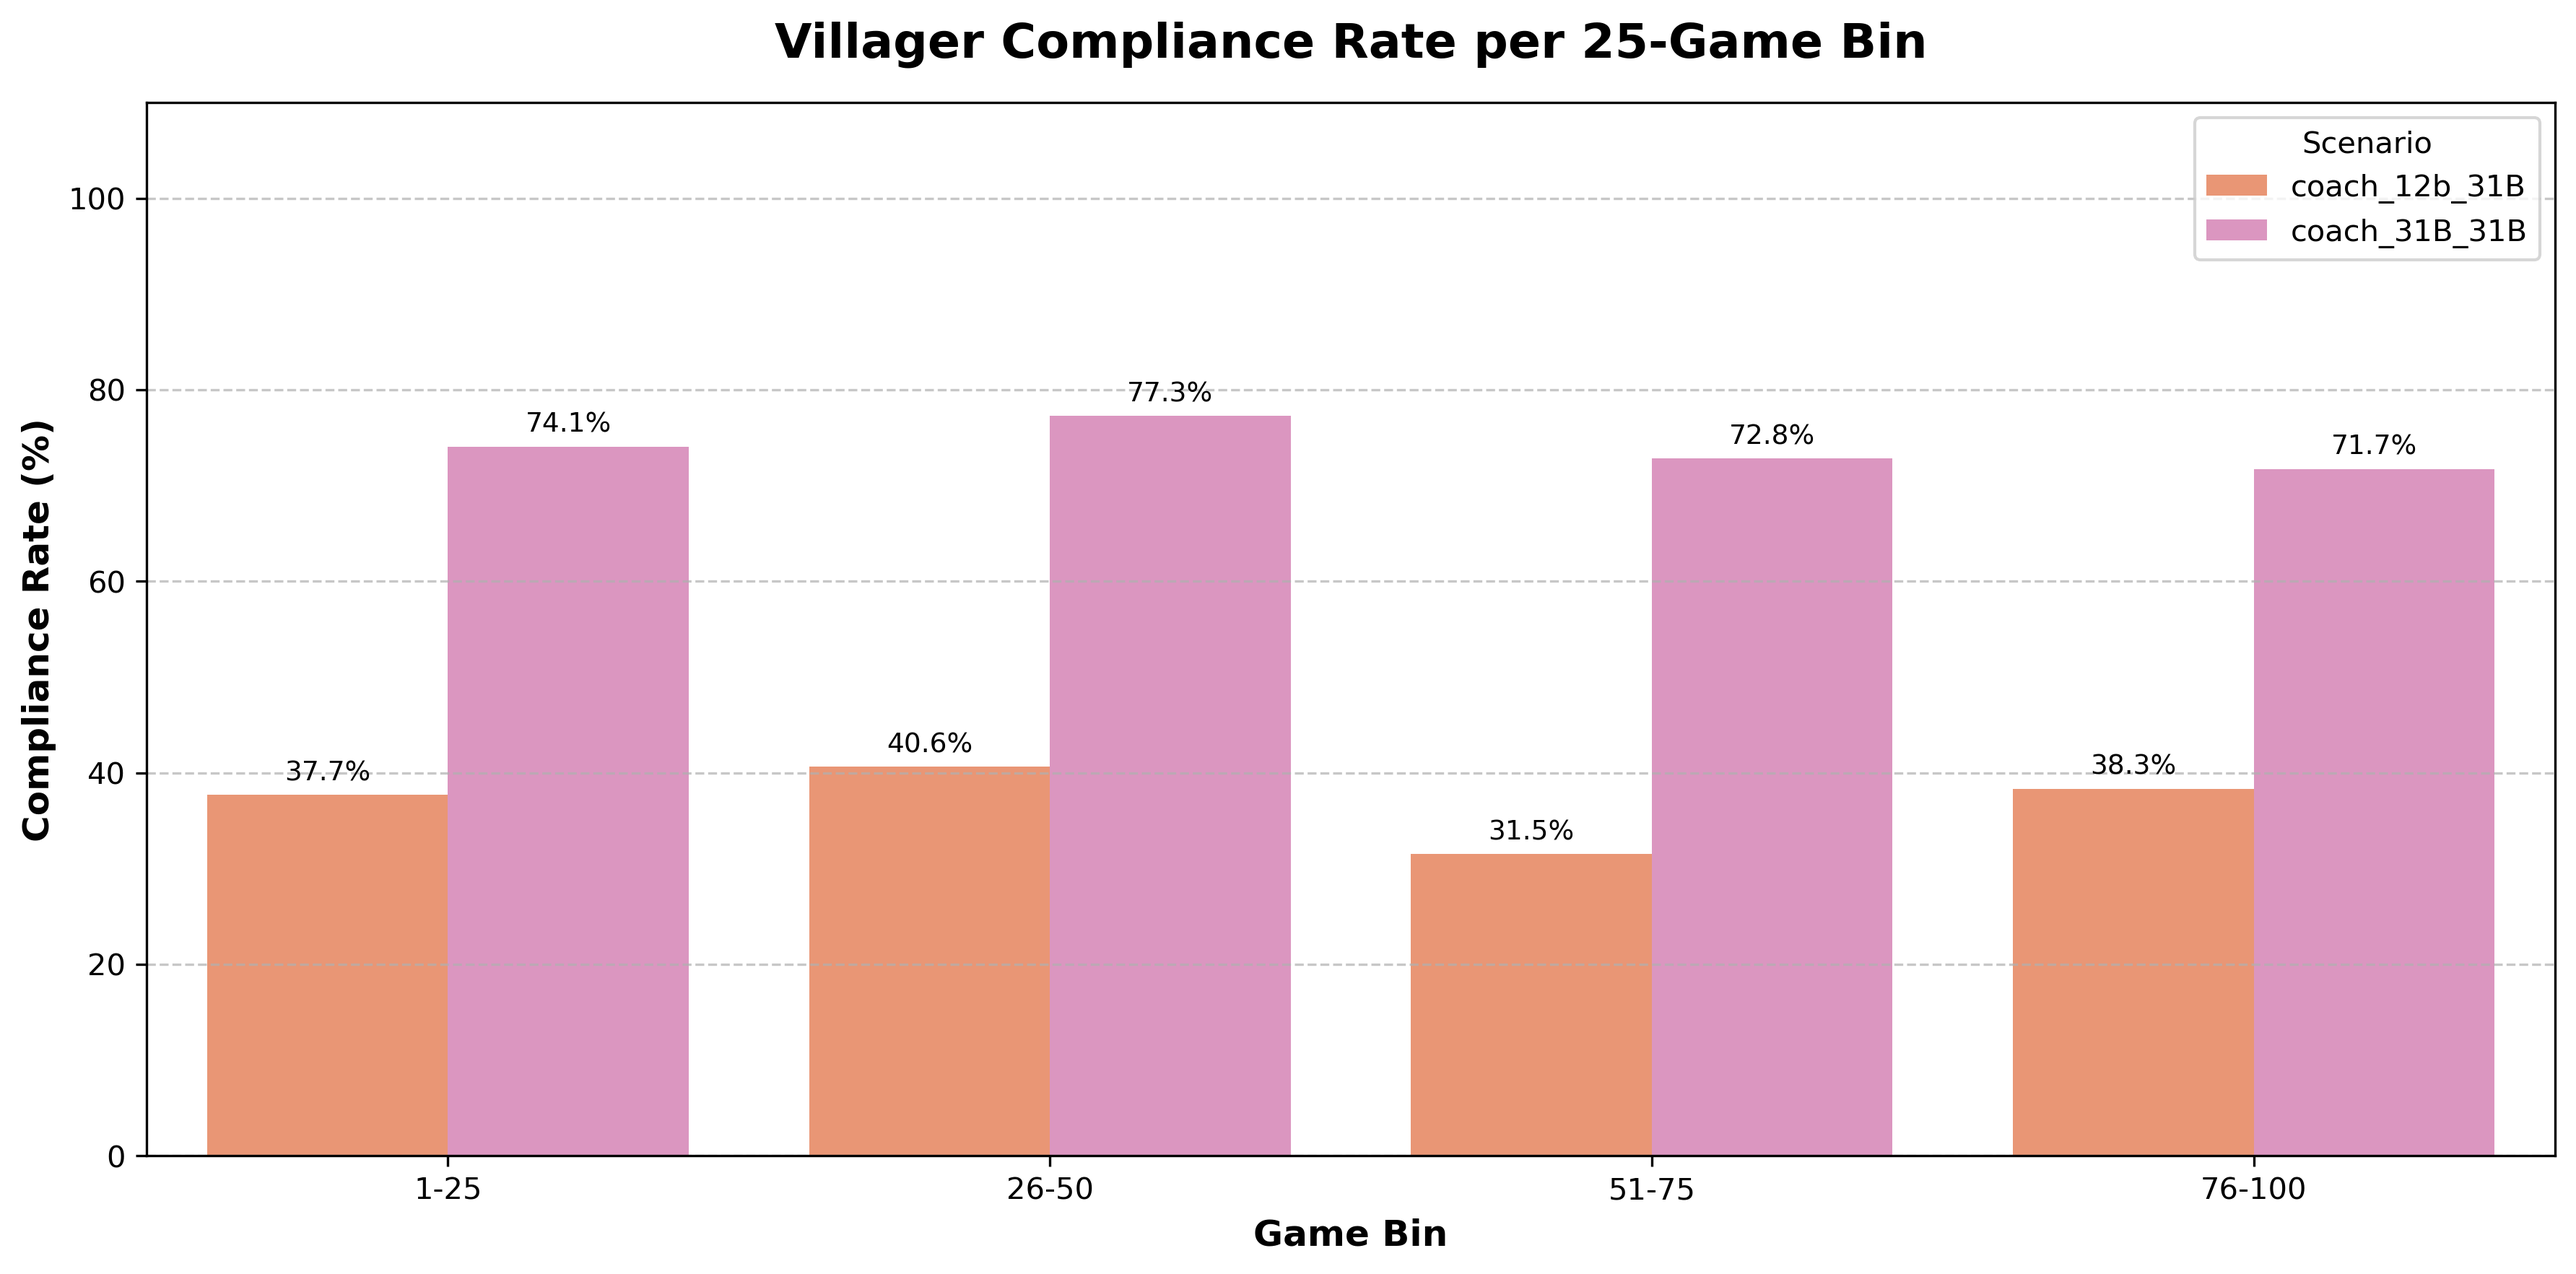
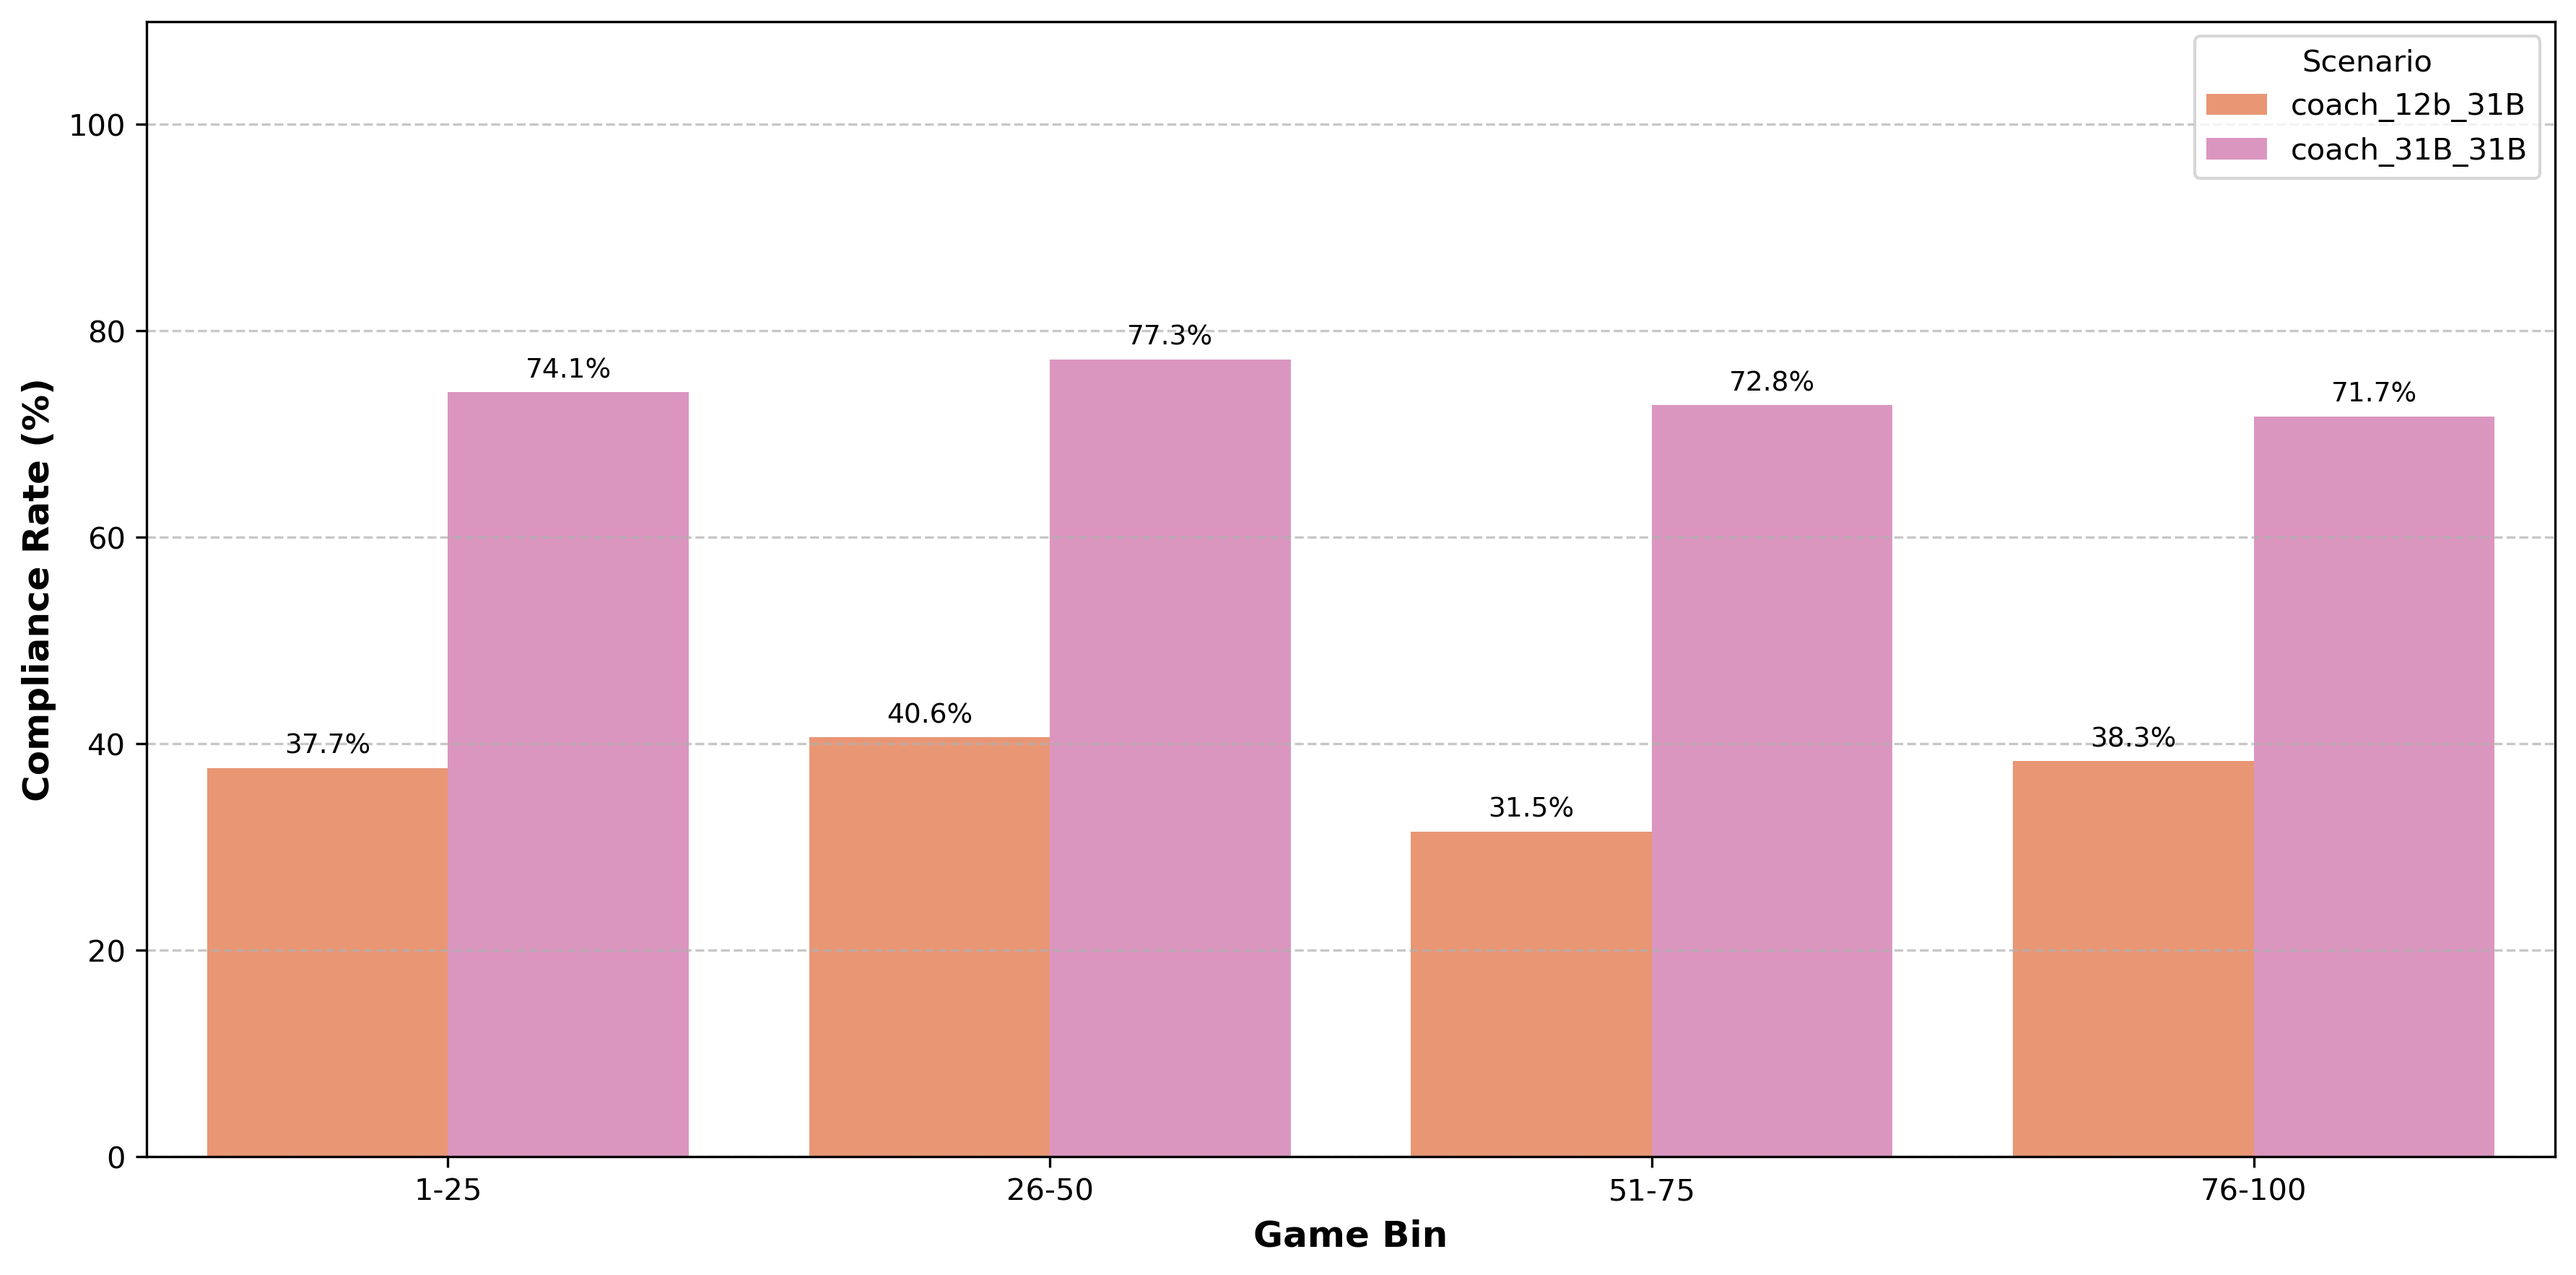
update evaluation output

diff --git a/evaluation/vote_precision.py b/evaluation/vote_precision.py
@@ -11,7 +11,9 @@ from run import VILLAGER_PLAYERS, WOLF_PLAYERS
 
 all_data = []
 
-# Process each scenario and extract RAW counts
+# ------------------------------------------------------------
+# 1. Data Extraction
+# ------------------------------------------------------------
 for scenario in SCENARIO_CONFIG:
     scenario_game_dir = (Path(__file__).parent.parent / "game_logs" / scenario).resolve()
     
@@ -61,8 +63,10 @@ for scenario in SCENARIO_CONFIG:
 # Convert to Pandas DataFrame
 df = pd.DataFrame(all_data)
 
-# Create the 25-game Bins
-# Games 1-25 -> Bin 0, Games 26-50 -> Bin 1, etc.
+# ------------------------------------------------------------
+# 2. Data Processing & Binning
+# ------------------------------------------------------------
+# Create the 25-game Bins (Games 1-25 -> Bin 0, Games 26-50 -> Bin 1, etc.)
 df['Bin_Index'] = (df['Game_ID'] - 1) // BIN_SIZE
 df['Bin_Label'] = df['Bin_Index'].apply(lambda x: f"{x * BIN_SIZE + 1}-{(x + 1) * BIN_SIZE}")
 
@@ -78,43 +82,88 @@ binned_df['Vote_Precision (%)'] = binned_df.apply(
 # Sort to ensure bins appear in order from left to right
 binned_df = binned_df.sort_values(by='Bin_Index')
 
-# Plotting the Clustered Bar Chart
-plt.figure(figsize=(12, 6))
+# ------------------------------------------------------------
+# 3. Plotting Setup: Lock the color palette to original scenarios
+# ------------------------------------------------------------
+# Handle SCENARIO_CONFIG whether it's a list or dictionary
+if isinstance(SCENARIO_CONFIG, dict):
+    all_scenarios = list(SCENARIO_CONFIG.keys())
+else:
+    all_scenarios = list(SCENARIO_CONFIG)
 
-ax = sns.barplot(
-    data=binned_df, 
-    x='Bin_Label', 
-    y='Vote_Precision (%)', 
-    hue='Scenario',
-    hue_order=SCENARIO_CONFIG,
-    palette='Set2'
+# Map the 'Set2' colors to all original scenarios to keep colors consistent
+all_colors = sns.color_palette('Set2', len(all_scenarios))
+locked_palette = {scenario: color for scenario, color in zip(all_scenarios, all_colors)}
+
+# ------------------------------------------------------------
+# 4. Reusable Plotting Function
+# ------------------------------------------------------------
+def plot_precision_subset(data, target_scenarios, title, filename):
+    plt.figure(figsize=(12, 6))
+
+    ax = sns.barplot(
+        data=data, 
+        x='Bin_Label', 
+        y='Vote_Precision (%)', 
+        hue='Scenario',
+        hue_order=target_scenarios,  # Only plot the requested scenarios
+        palette=locked_palette       # Use the locked colors
+    )
+
+    # Add precision labels on top of the bars
+    for container in ax.containers:
+        ax.bar_label(container, fmt='%.1f%%', padding=3, fontsize=9)
+
+    # Customize Aesthetics
+    plt.title(title, fontsize=16, fontweight='bold', pad=15)
+    plt.xlabel('Game Bin', fontsize=12, fontweight='bold')
+    plt.ylabel('Vote Precision (%)', fontsize=12, fontweight='bold')
+
+    # Legend inside the plot at the top right
+    plt.legend(title='Scenario', loc='upper right')
+
+    # Set y-axis slightly above 100% so text doesn't get cut off
+    plt.ylim(0, 110)  
+    plt.grid(axis='y', linestyle='--', alpha=0.7)
+    plt.tight_layout()
+
+    # Ensure output directory exists
+    output_dir = (Path(__file__).parent.parent / FIGURES_FOLDERNAME).resolve()
+    output_dir.mkdir(parents=True, exist_ok=True)
+    output_file = output_dir / filename
+
+    # Save and close the figure
+    plt.savefig(output_file, dpi=300, bbox_inches='tight')
+    print(f"Success! Chart saved to: {output_file}")
+    plt.close()
+
+# ------------------------------------------------------------
+# 5. Generate the Charts
+# ------------------------------------------------------------
+
+# Chart 1: 12B Scenarios
+plot_precision_subset(
+    data=binned_df,
+    target_scenarios=["baseline_12b_31B", "coach_12b_31B"],
+    # title='Villager Vote Precision per 25-Game Bin (12B Models)',
+    title='',
+    filename="vote_precision_12b.png"
 )
 
-# Add precision labels on top of the bars
-for container in ax.containers:
-    ax.bar_label(container, fmt='%.1f%%', padding=3, fontsize=9)
+# Chart 2: 31B Scenarios
+plot_precision_subset(
+    data=binned_df,
+    target_scenarios=["baseline_31B_31B", "coach_31B_31B"],
+    # title='Villager Vote Precision per 25-Game Bin (31B Models)',
+    title='',
+    filename="vote_precision_31b.png"
+)
 
-# Customize Aesthetics
-plt.title('Villager Vote Precision per 25-Game Bin', fontsize=16, fontweight='bold', pad=15)
-plt.xlabel('Game Bin', fontsize=12, fontweight='bold')
-plt.ylabel('Vote Precision (%)', fontsize=12, fontweight='bold')
-
-# Move legend outside
-plt.legend(title='Scenario', loc='upper right')
-
-# Set y-axis slightly above 100% so text doesn't get cut off
-plt.ylim(0, 110)  
-plt.grid(axis='y', linestyle='--', alpha=0.7)
-plt.tight_layout()
-
-output_dir = (Path(__file__).parent.parent / FIGURES_FOLDERNAME).resolve()
-output_dir.mkdir(parents=True, exist_ok=True)
-output_file = output_dir / "vote_precision.png"
-
-# Save the figure (MUST be called before plt.show())
-# dpi=300 makes it high-res, bbox_inches='tight' prevents the legend from being cut off
-plt.savefig(output_file, dpi=300, bbox_inches='tight')
-
-print(f"Success! Chart saved to: {output_file}")
-
-# plt.show()
+# Chart 3: All Scenarios
+plot_precision_subset(
+    data=binned_df,
+    target_scenarios=all_scenarios,
+    # title='Villager Vote Precision per 25-Game Bin (All Scenarios)',
+    title='',
+    filename="vote_precision_all.png"
+)

diff --git a/evaluation/llm_metrics.py b/evaluation/llm_metrics.py
@@ -122,10 +122,11 @@ def plot_metric(data, y_col, title, ylabel, filename, is_percentage=False, y_max
 # --- 5. Generate Visuals ---
 # Chart 1: Compliance Rate
 plot_metric(
-    data=binned_df, 
-    y_col='Compliance_Rate', 
-    title='Villager Compliance Rate per 25-Game Bin', 
-    ylabel='Compliance Rate (%)', 
+    data=binned_df,
+    y_col='Compliance_Rate',
+    # title='Villager Compliance Rate per 25-Game Bin',
+    title='',
+    ylabel='Compliance Rate (%)',
     filename='compliance_rate.png',
     is_percentage=True,
     y_max=110 # Max percentage + headroom
@@ -133,10 +134,11 @@ plot_metric(
 
 # Chart 2: Summarization Ability
 plot_metric(
-    data=binned_df, 
-    y_col='Summarization_Ability', 
-    title='Villager Summarization Ability per 25-Game Bin', 
-    ylabel='Summarization Score (0-10)', 
+    data=binned_df,
+    y_col='Summarization_Ability',
+    # title='Villager Summarization Ability per 25-Game Bin',
+    title='',
+    ylabel='Summarization Score (0-10)',
     filename='summarization_ability.png',
     is_percentage=False,
     y_max=11 # Max score of 10 + headroom
@@ -144,9 +146,10 @@ plot_metric(
 
 # Chart 3: Feedback Overlap Proportion
 plot_metric(
-    data=binned_df, 
+    data=binned_df,
     y_col='Feedback_Overlap (%)',               # Updated column name
-    title='Feedback Overlap Proportion per 25-Game Bin', 
+    # title='Feedback Overlap Proportion per 25-Game Bin',
+    title='',
     ylabel='Overlap Proportion (%)',            # Updated y-axis label
     filename='feedback_overlap.png',
     is_percentage=True,                         # Automatically formats to %.1f%%

diff --git a/config.py b/config.py
@@ -20,7 +20,9 @@ MODEL_PROVIDERS = {
     "liquid/lfm-2-24b-a2b": ChatOpenAI,
     "zai-org/GLM-4.7-Flash": ChatOpenAI,
     "nvidia/nemotron-3-super-120b-a12b:free": ChatOpenAI,
-    "o3-mini": ChatOpenAI
+    "o3-mini": ChatOpenAI,
+    "openai/gpt-oss-120b": ChatOpenAI,
+    "openai/gpt-oss-20b": ChatOpenAI,
 }
 
 LLM_BASE_CONFIG = {
@@ -32,15 +34,21 @@ LLM_BASE_CONFIG = {
 # ============================================================
 
 SCENARIO_CONFIG = {
+    # "baseline_12b_12b": {
+    #     "villager_model": "google/gemma-3-12b-it",
+    #     "wolf_model": "google/gemma-3-12b-it",
+    #     "coaching": False,
+    #     "self_analyze": True,
+    # },
+    # "coach_12b_12b": {
+    #     "villager_model": "google/gemma-3-12b-it",
+    #     "wolf_model": "google/gemma-3-12b-it",
+    #     "coaching": True,
+    #     "self_analyze": True,
+    # },
     "baseline_12b_31B": {
         "villager_model": "google/gemma-3-12b-it",
         "wolf_model": "google/gemma-4-31B-it",
-        "coaching": False,
-        "self_analyze": True,
-    },
-    "baseline_12b_12b": {
-        "villager_model": "google/gemma-3-12b-it",
-        "wolf_model": "google/gemma-3-12b-it",
         "coaching": False,
         "self_analyze": True,
     },

diff --git a/evaluation/belief_calibration.py b/evaluation/belief_calibration.py
@@ -125,7 +125,7 @@ for container in ax.containers:
     # fmt='%.3f' shows 3 decimal places (e.g., 0.145) since errors are usually small fractions
     ax.bar_label(container, fmt='%.3f', padding=3, fontsize=9)
 
-plt.title('Villager Belief Error (RMSE) per 25-Game Bin', fontsize=16, fontweight='bold', pad=15)
+# plt.title('Villager Belief Error (RMSE) per 25-Game Bin', fontsize=16, fontweight='bold', pad=15)
 plt.xlabel('Game Bin', fontsize=12, fontweight='bold')
 plt.ylabel('Belief RMSE', fontsize=12, fontweight='bold')
 

diff --git a/evaluation/win_rate.py b/evaluation/win_rate.py
@@ -63,7 +63,7 @@ for container in ax.containers:
     ax.bar_label(container, fmt='%.1f%%', padding=3, fontsize=9)
 
 # Customize the aesthetics
-plt.title('Villager Win Rate per 25-Game Bin by Experiment', fontsize=16, fontweight='bold', pad=15)
+# plt.title('Villager Win Rate per 25-Game Bin by Experiment', fontsize=16, fontweight='bold', pad=15)
 plt.xlabel(GAME_BIN_AXIS_NAME, fontsize=12, fontweight='bold')
 plt.ylabel(WIN_RATE_AXIS_NAME, fontsize=12, fontweight='bold')
 
